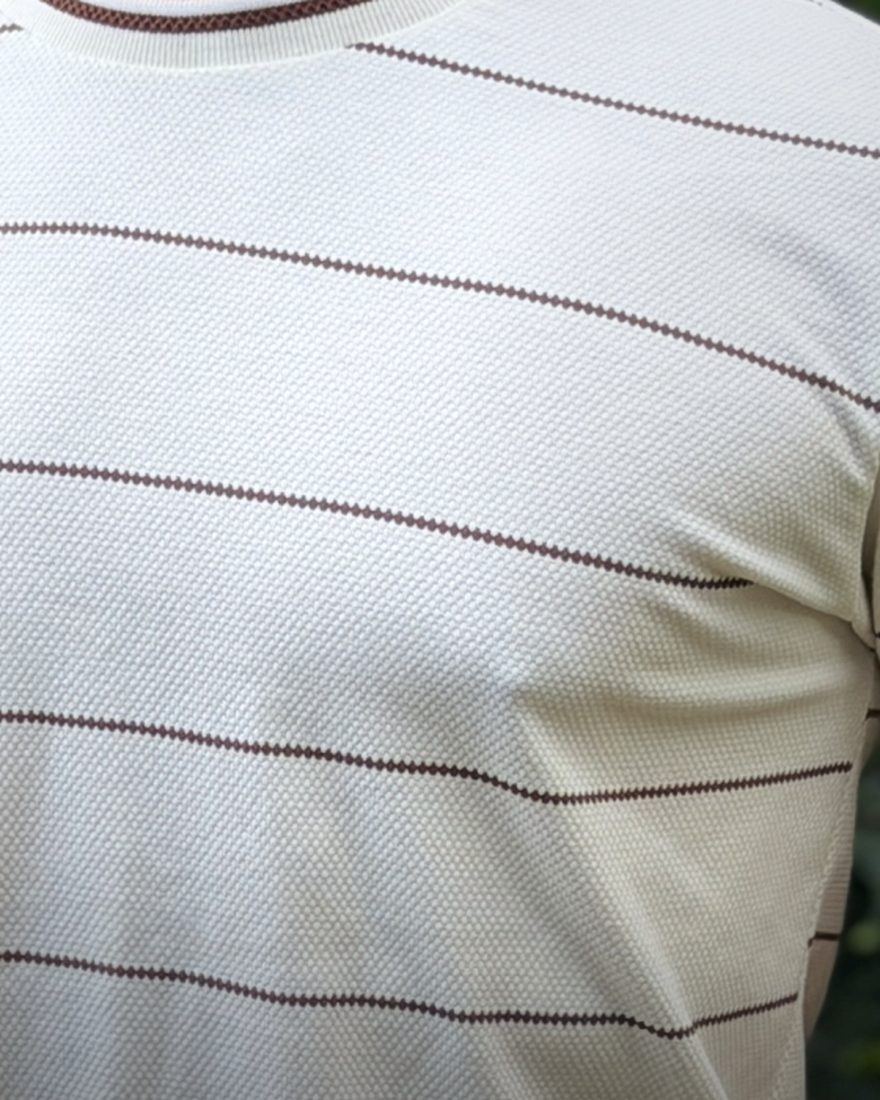
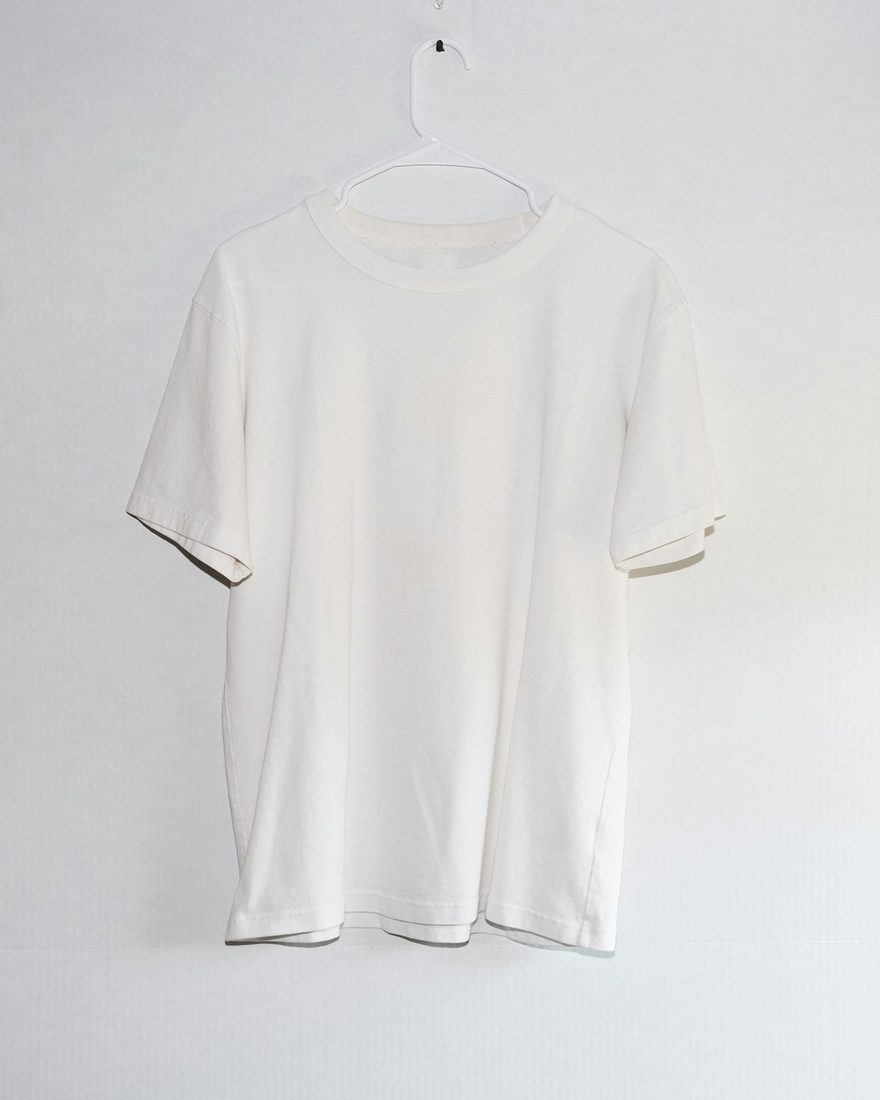
seção 01 vira duas colunas: a pilha à direita, o argumento inteiro à esquerda
A dobra era três fileiras de grade — título em cima, trio de Polaroids no
meio, virada e botão soltos embaixo — e metade das células ficava vazia.
Agora são duas colunas cheias e nenhuma sobra.

O que mudou:

- As três cópias deixam de ser fileira e viram PILHA em cascata, sangrando
  para fora da margem direita. As legendas alinham à direita porque a faixa
  livre de cada foto é o deslocamento da foto da frente, não a largura dela:
  com 24% de degrau sobravam 170px e "Loja da rua de trás" era cortada; com
  28% sobram ~198px e a legenda mais longa cabe.
- O degrau vertical subiu de 17% para 23%. Com 17% a pilha terminava 170px
  acima do pé da coluna esquerda e reabria, à direita, o mesmo vazio que
  esta dobra existe para eliminar.
- A virada vira bloco invertido em azul, sangra até a borda esquerda e
  engole o CTA. Some o defeito do botão flutuando sozinho numa linha de 12
  colunas, e ele passa a ser o ponto mais claro da dobra.
- O número da dobra vira fólio na MARGEM, não em coluna própria: coluna
  roubava largura do H2 e o empurrava de três para quatro linhas. A cor é
  diluição da tinta contra o fundo — com --fld ele sumia, porque nesta
  parada da jornada o fundo já é azul claro.
- A tese ("o que sobra para disputar é desconto") sai do corpo e sobe de
  escala: a coluna precisava de um segundo pico, senão são cinco linhas de
  cinza uniforme até a virada.
- A divisória antes da virada vira a costura, a mesma máscara já usada nos
  passos da dobra 03.
[…]

diff --git a/index.html b/index.html
@@ -417,7 +417,6 @@ section{position:relative;z-index:1}
    posicionam os blocos por grid-row nomeado — item sem linha declarada
    cairia num buraco de linha anterior. */
 .sec-act{grid-column:1/13;margin-top:var(--s7)}
-.mod-act{grid-row:4}
 .tro-act{grid-row:5}
 .cam-act{grid-row:4}
 .gru-act{grid-row:3}
@@ -959,28 +958,96 @@ section{position:relative;z-index:1}
 }
 
 /* 01 · o modelo — A VITRINE REPETIDA
-   A dobra deixou de CONTAR o argumento para MOSTRÁ-LO: a mesma
-   fotografia impressa três vezes, cada cópia com o nome de uma loja na
-   legenda. A repetição é a tese — se a peça é a mesma em toda vitrine,
-   nenhuma delas é de alguém. A terceira legenda ("A sua loja") põe o
-   leitor dentro do problema; a virada, logo abaixo, o tira. */
-.mod-a{grid-column:1/8;grid-row:1}
-.mod-b{grid-column:8/13;grid-row:1;align-self:start}
-.mod-b p+p{margin-top:var(--s4)}
-/* As três cópias NÃO se alinham: fotos iguais pousadas na mesa, cada
-   uma com seu ângulo e sua altura. Em régua leriam como galeria de
-   produtos diferentes — o desalinho é o que diz "é a mesma foto". */
-.mod-trio{grid-column:1/13;grid-row:2;margin-top:var(--s8);
-  display:grid;grid-template-columns:repeat(3,1fr);column-gap:var(--gap)}
-.mod-trio .fig:nth-child(1){--gir:-2.2deg}
-.mod-trio .fig:nth-child(2){--gir:1.7deg;margin-top:var(--s6)}
-.mod-trio .fig:nth-child(3){--gir:-1.2deg;margin-top:var(--s3)}
-/* A virada fica fora do eixo, à direita: depois de uma fileira que
-   ocupa a largura toda, o bloco deslocado devolve movimento à leitura.
-   E desce de escala — o H2 é o diagnóstico, este é a saída; dois picos
-   iguais na mesma dobra deixam o olho sem saber qual é o argumento. */
-.mod-c{grid-column:7/13;grid-row:3;margin-top:var(--s8)}
-.mod-c h3{font-size:clamp(1.7rem,2.5vw,2.25rem);margin-bottom:var(--s4);max-width:18ch}
+   A dobra não CONTA o argumento, MOSTRA: a mesma fotografia três vezes,
+   cada cópia com o nome de uma loja na legenda. A repetição é a tese —
+   se a peça é a mesma em toda vitrine, nenhuma delas é de alguém. A
+   terceira legenda ("A sua loja") põe o leitor dentro do problema.
+
+   A foto é DE PROPÓSITO de banco de imagem, e é o único lugar da página
+   onde isso vale: aqui a peça precisa ser a mercadoria anônima que
+   qualquer um revende. Usar peça da MR aqui punha a página a acusar o
+   próprio produto que ela vende.
+
+   A dobra era três fileiras de grade — título em cima, trio no meio,
+   virada e botão soltos embaixo — e metade das células ficava vazia.
+   Agora são DUAS COLUNAS cheias: o argumento inteiro à esquerda, a
+   pilha à direita. Não sobra célula. */
+/* O fólio mora na MARGEM, não numa coluna: dar coluna própria ao número
+   roubava largura do H2 e o empurrava de três para quatro linhas. Fora
+   da caixa ele não custa nada ao texto — e marginália é o que ele é. */
+.mod-a{grid-column:1/6;grid-row:1;position:relative}
+.mod-folio{position:absolute;top:-.06em;left:calc(var(--pad) * -1);
+  font-family:var(--serif);font-variation-settings:'wght' 560;
+  font-size:2.4rem;line-height:.9;letter-spacing:-.03em;
+  /* NÃO usar --fld aqui: nesta dobra o fundo já é azul claro e o traço
+     do campo de marca some dentro dele. Diluição da tinta contra o
+     fundo mantém contraste em qualquer parada da jornada de cor. */
+  color:color-mix(in srgb,var(--ink) 26%,var(--bg));
+  font-feature-settings:"lnum" 1,"onum" 0}
+/* o número segue no rótulo para quem lê por leitor de tela; o que sai
+   é só a tinta, senão o "01" apareceria duas vezes na mesma linha */
+.mod-a .eyebrow .n{position:absolute;width:1px;height:1px;overflow:hidden;
+  clip-path:inset(50%);white-space:nowrap}
+.mod-a .body{margin-top:var(--s5)}
+/* A tese sai do corpo e sobe de escala: a coluna precisava de um segundo
+   pico de leitura, senão são 5 linhas de cinza uniforme até a virada. */
+.mod-tese{margin-top:var(--s5);font-family:var(--serif);font-style:italic;
+  font-variation-settings:'wght' 500;
+  font-size:clamp(1.5rem,1.95vw,1.9rem);line-height:1.24;letter-spacing:-.01em;
+  color:var(--ink);max-width:19ch}
+.mod-tese b{font-style:normal;font-variation-settings:'wght' 600;color:var(--accent)}
+
+/* A PILHA — as cópias não se alinham em fileira, se empilham como fotos
+   jogadas na mesa. A cascata SOBE da esquerda para a direita e as
+   legendas alinham à direita: é isso que mantém os três nomes legíveis,
+   porque cada foto só cobre a metade esquerda da de trás — e a legenda
+   é onde mora o argumento. Sangra para fora da margem direita. */
+.mod-pilha{grid-column:6/13;grid-row:1/3;position:relative;
+  margin-right:calc(var(--pad) * -1 - 8px);min-height:560px}
+/* A geometria não é gosto, é conta. Chamando L a largura da foto e o o
+   deslocamento de cada degrau, a faixa que sobra livre para a legenda de
+   uma foto é exatamente o DESLOCAMENTO da foto da frente — não a
+   largura. Com 24% de degrau sobravam 170px e "Loja da rua de trás"
+   media mais que isso: a legenda entrava embaixo da foto vizinha. Com
+   28% sobram ~198px e a legenda mais longa cabe inteira. A largura caiu
+   para 44% só para o último degrau (56% + 44%) fechar em 100%. */
+.mod-pilha .fig{position:absolute;width:44%}
+.mod-pilha .fig figcaption{text-align:right;padding-right:14px;font-size:1.08rem}
+/* O degrau VERTICAL é o que fecha a coluna: com 17% a pilha terminava
+   170px acima do pé do bloco azul e reabria, à direita, o mesmo vazio
+   que esta dobra existe para eliminar. Com 23% o último degrau chega
+   perto do pé da coluna esquerda e as duas fecham juntas. O passo ainda
+   é metade da altura da foto, então continua lendo como pilha. */
+.mod-pilha .fig:nth-child(1){--gir:-4.2deg;left:56%;top:0;    z-index:1}
+.mod-pilha .fig:nth-child(2){--gir:2.4deg; left:28%;top:23%;  z-index:2}
+.mod-pilha .fig:nth-child(3){--gir:-1.2deg;left:0;   top:46%; z-index:3;
+  box-shadow:0 2px 5px rgba(7,22,35,.2), 0 30px 56px -18px rgba(7,22,35,.45)}
+.mod-pilha .fig:nth-child(3) figcaption{color:var(--accent)}
+
+/* A VIRADA é bloco, não parágrafo solto: inverte a tinta, sangra até a
+   borda esquerda da página e engole o botão. Resolve de quebra o defeito
+   de o CTA flutuar sozinho numa linha de 12 colunas — ele deixa de
+   flutuar e vira o fecho do bloco. Branco sobre azul, é o ponto mais
+   claro da dobra, que é onde o CTA deve estar. */
+.mod-vira{grid-column:1/6;grid-row:2;margin-top:var(--s7);position:relative;
+  background:var(--accent);color:var(--onacc);
+  margin-left:calc(var(--pad) * -1);
+  padding:var(--s6) var(--s6) var(--s6) var(--pad)}
+/* a costura é bainha do bloco, e é a mesma máscara dos passos da 03 */
+.mod-vira::before{content:"";position:absolute;top:-14px;left:var(--pad);right:0;height:3px;
+  background-color:var(--soft);
+  -webkit-mask:var(--costura) repeat-x left center/26px 3px;
+          mask:var(--costura) repeat-x left center/26px 3px}
+.mod-vira h3{font-size:clamp(1.55rem,2.1vw,1.95rem);margin-bottom:var(--s3);
+  max-width:17ch;color:var(--onacc)}
+/* o itálico não pode virar cor fixa: dentro do bloco ele precisa ser
+   sempre uma diluição da tinta DO BLOCO, senão sai da jornada de cor */
+.mod-vira h3 em{color:color-mix(in srgb,var(--onacc) 64%,var(--accent))}
+.mod-vira .lead{font-size:1.13rem;line-height:1.55;max-width:34ch;
+  color:color-mix(in srgb,var(--onacc) 82%,var(--accent))}
+.mod-vira .cta{margin-top:var(--s5);background:var(--onacc);color:var(--ink)}
+.mod-vira .cta::before{background:var(--ink)}
+.mod-vira .cta:hover{color:var(--onacc)}
 
 /* 02 · a troca */
 .tro-a{grid-column:1/6;grid-row:1}
@@ -1156,7 +1223,6 @@ section{position:relative;z-index:1}
 @media (max-width:1120px){
   .hero-txt,.hero-act{grid-column:1/6}
   .hero-diz{grid-column:8/13}
-  .mod-fig{grid-column:1/6}.mod-c{grid-column:7/13}
   .tro-a,.tro-fig{grid-column:1/6}.tro-b{grid-column:7/13}
   .cam-b{grid-column:8/13}.cam-fig{grid-column:1/6}.cam-c{grid-column:7/13}
   .gru-a,.gru-fig{grid-column:1/6}.gru-b{grid-column:7/13}
@@ -1202,16 +1268,29 @@ section{position:relative;z-index:1}
     flex-direction:column-reverse;align-items:flex-start}
   .hero-act{margin-top:var(--s5)}
   .hero-sub{max-width:38ch}
-  .mod-c,.cam-cards,.cam-fig,.cam-c,.tro-c,.hero-num{margin-top:var(--s7)}
-  /* a pilha vira PILHA de verdade: cartas em zigue-zague, cada uma
-     sobrepondo um pedaço da DE BAIXO. O z-index decresce para que a
-     foto de cima cubra só imagem da seguinte, nunca legenda — a
+  .cam-cards,.cam-fig,.cam-c,.tro-c,.hero-num{margin-top:var(--s7)}
+  /* Em coluna única a pilha sai do posicionamento absoluto e volta ao
+     fluxo — `position:absolute` num pai sem altura própria colapsaria a
+     dobra. O gesto sobrevive por margem negativa: cartas em zigue-zague,
+     cada uma sobrepondo um pedaço da DE BAIXO. O z-index decresce para
+     que a foto de cima cubra só imagem da seguinte, nunca legenda — a
      legenda é onde mora o argumento. */
-  .mod-trio{grid-template-columns:1fr;margin-top:var(--s7)}
-  .mod-trio .fig{width:min(74vw,300px)}
-  .mod-trio .fig:nth-child(1){z-index:3;justify-self:start;margin-top:0}
-  .mod-trio .fig:nth-child(2){z-index:2;justify-self:end;margin-top:calc(-1*var(--s6))}
-  .mod-trio .fig:nth-child(3){z-index:1;justify-self:center;margin-top:calc(-1*var(--s6))}
+  .mod-pilha{margin-top:var(--s7);min-height:0;margin-right:0;
+    display:grid;grid-template-columns:1fr}
+  .mod-pilha .fig{position:static;width:min(74vw,300px)}
+  .mod-pilha .fig figcaption{text-align:center;padding-right:8px}
+  .mod-pilha .fig:nth-child(1){z-index:3;justify-self:start;margin-top:0}
+  .mod-pilha .fig:nth-child(2){z-index:2;justify-self:end;margin-top:calc(-1*var(--s6))}
+  .mod-pilha .fig:nth-child(3){z-index:1;justify-self:center;margin-top:calc(-1*var(--s6))}
+  /* o fólio sai: ele vive na margem lateral da página, e em 375px essa
+     margem é 24px — não sobra sangria para ele. O número volta a ser o
+     do rótulo, que é de onde ele saiu. */
+  .mod-folio{display:none}
+  .mod-a .eyebrow .n{position:static;width:auto;height:auto;clip-path:none}
+  /* o bloco da virada sangra pelos DOIS lados em coluna única */
+  .mod-vira{margin-top:var(--s7);margin-inline:calc(var(--pad) * -1);
+    padding:var(--s6) var(--pad)}
+  .mod-vira::before{left:var(--pad);right:var(--pad)}
   .tro-b{margin-top:var(--s7)}
   .gru-b{margin-top:var(--s7)}
   .close{margin-top:var(--s7);display:block}
@@ -1224,7 +1303,7 @@ section{position:relative;z-index:1}
   .step-in{grid-template-columns:1fr;row-gap:var(--s3)}
   .step-hd{gap:var(--s3);padding-block:var(--s3)}
   /* na pilha, cada bloco recebe a mesma folga de 32 */
-  .mod-b,.cam-b,.tro-a .lead{margin-top:var(--s5)}
+  .cam-b,.tro-a .lead{margin-top:var(--s5)}
   .cta.sm{padding:11px 16px}
   .cta.sm .lbl{font-size:.68rem;letter-spacing:.12em}
   .cta.sm .arw{display:none}
@@ -1357,20 +1436,20 @@ section{position:relative;z-index:1}
 <section class="sec wrap" id="modelo" data-fold="2">
   <div class="g12">
     <div class="mod-a">
+      <p class="mod-folio rv" aria-hidden="true">01</p>
       <p class="eyebrow label rv"><span class="n">01</span><span>O modelo</span></p>
       <h2 class="d2 rvl">A peça da sua vitrine também está na vitrine <em>do vizinho</em>.</h2>
-    </div>
-
-    <div class="mod-b body rv">
-      <p>É assim que o modelo de revenda funciona: a peça chega pronta, com a marca de outra empresa e o preço sugerido junto. O caminho que trouxe essa peça até a sua loja é o mesmo que a leva para todas as outras.</p>
-      <p>Quando o produto é igual, o que sobra para disputar é desconto.</p>
+      <div class="body rv">
+        <p>É assim que o modelo de revenda funciona: a peça chega pronta, com a marca de outra empresa e o preço sugerido junto. O caminho que trouxe essa peça até a sua loja é o mesmo que a leva para todas as outras.</p>
+      </div>
+      <p class="mod-tese rv">Quando o produto é igual, o que sobra para disputar é <b>desconto</b>.</p>
     </div>
 
     <!-- A prova visual: a MESMA imagem três vezes, de propósito. As
          legendas fazem o trabalho do argumento; as imagens repetidas
          são decorativas para o leitor de tela, que recebe a tese
          inteira no rótulo do grupo. -->
-    <div class="mod-trio" role="group" aria-label="A mesma fotografia de peça repetida três vezes: a peça é igual na loja do centro, na loja da rua de trás e na sua loja.">
+    <div class="mod-pilha" role="group" aria-label="A mesma fotografia de peça repetida três vezes: a peça é igual na loja do centro, na loja da rua de trás e na sua loja.">
       <figure class="fig rv">
         <div class="fig-in"><img loading="lazy" decoding="async" src="img/02-modelo.jpg" alt="" width="880" height="1100"></div>
         <figcaption class="label">Loja do centro</figcaption>
@@ -1385,12 +1464,9 @@ section{position:relative;z-index:1}
       </figure>
     </div>
 
-    <div class="mod-c">
-      <h3 class="d2 rvl">Marca <em>própria</em> tira a sua loja dessa foto.</h3>
-      <p class="lead rv">Com a sua marca na peça, preço, margem e cliente deixam de depender de fornecedor.</p>
-    </div>
-
-    <div class="sec-act mod-act rv">
+    <div class="mod-vira rv">
+      <h3 class="d2">Marca <em>própria</em> tira a sua loja dessa foto.</h3>
+      <p class="lead">Com a sua marca na peça, preço, margem e cliente deixam de depender de fornecedor.</p>
       <a class="cta js-cta" href="#"><span class="lbl">Entrar no grupo</span><span class="arw">&#8594;</span></a>
     </div>
   </div>
